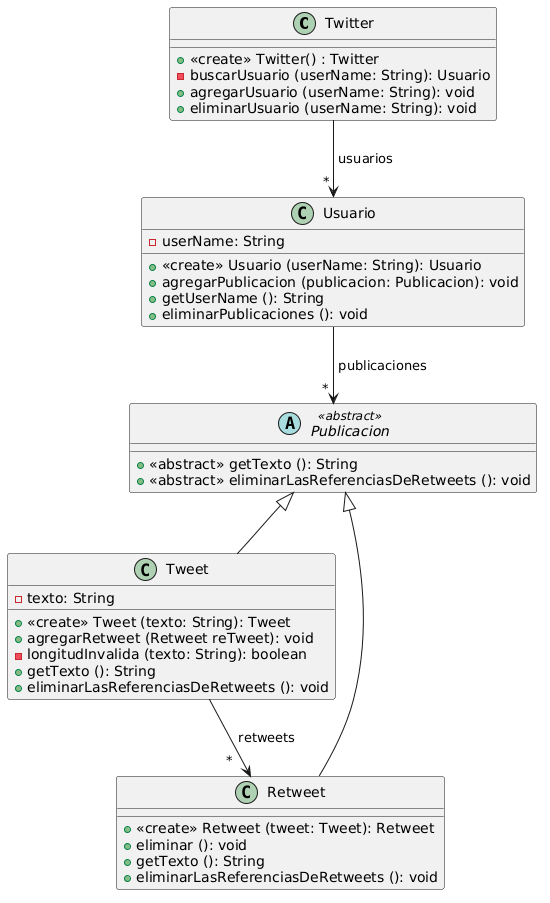
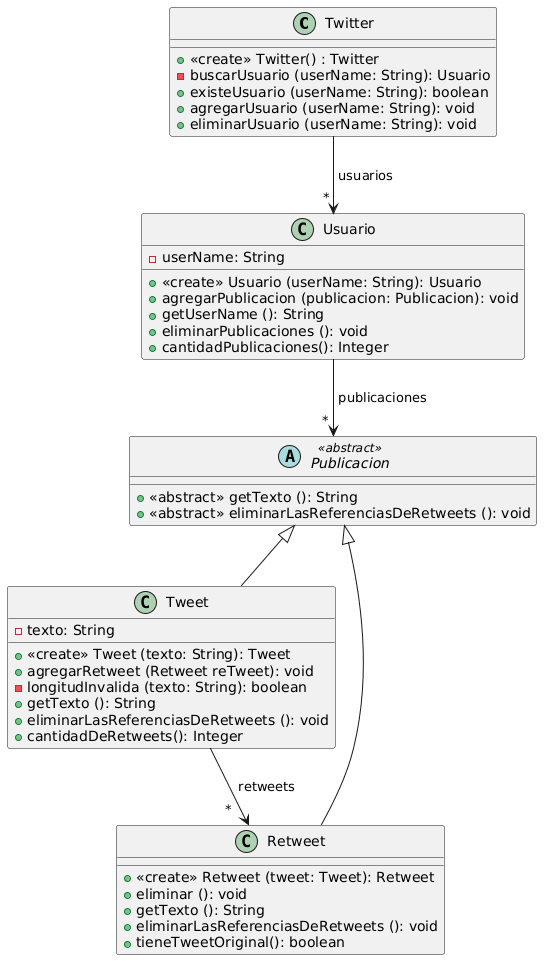
POO2

diff --git a/Cuadernillo/Repaso/ejercicio 1/test/TweetTest.java b/Cuadernillo/Repaso/ejercicio 1/test/TweetTest.java
@@ -1,0 +1,66 @@
+package RepasoEjercicio1;
+
+import org.junit.jupiter.api.Test;
+import static org.junit.jupiter.api.Assertions.*;
+
+class TweetTest {
+
+    private Tweet tweet;
+    private Retweet retweet;
+
+    @Test
+    public void tweetLonguitudLimiteInferiorInvalido(){
+        String texto = "";
+        IllegalArgumentException exception = assertThrows(IllegalArgumentException.class, () -> new Tweet(texto));
+        assertEquals("Largo de tweet invalido", exception.getMessage());
+    }
+
+    @Test
+    public void tweetLonguitudInferiorValida(){
+        String texto = "a";
+        Tweet tweet = new Tweet(texto);
+        assertEquals(texto, tweet.getTexto());
+    }
+
+   @Test
+   public void tweetLonguitudSuperiorValida(){
+       String texto = "a".repeat(280);
+       Tweet tweet = new Tweet(texto);
+       assertEquals(texto, tweet.getTexto());
+   }
+
+
+    @Test
+    public void tweetLonguitudSuperiorInvalido(){
+        String texto = "a".repeat(281);
+        IllegalArgumentException exception = assertThrows(IllegalArgumentException.class, () -> new Tweet(texto));
+        assertEquals("Largo de tweet invalido", exception.getMessage());
+    }
+
+
+   @Test
+    public void agregarReTweet(){
+       Tweet tweet = new Tweet("hola");
+       Retweet retweet= new Retweet(tweet); // se instancia retweet y se agrega a colecicon de tweet(retweetsDeMisTweets).
+       assertEquals(1,tweet.cantidadDeRetweets());
+   }
+
+    @Test
+    public void agregarMasDeUnReTweet(){
+        Tweet tweet = new Tweet("hola");
+        Retweet retweet= new Retweet(tweet);
+        Retweet retweet2 = new Retweet(tweet);
+        assertEquals(2,tweet.cantidadDeRetweets());
+    }
+
+    @Test
+    public void eliminarReferenciasDeRetweets(){
+        Tweet tweet = new Tweet("hola");
+        Retweet retweet1 = new Retweet(tweet);
+        Retweet retweet2 = new Retweet(tweet);
+        assertEquals(2, tweet.cantidadDeRetweets());
+        tweet.eliminarLasReferenciasDeRetweets();
+        assertEquals(0, tweet.cantidadDeRetweets());
+    }
+
+}

diff --git a/Cuadernillo/Repaso/ejercicio 1/test/TwitterTest.java b/Cuadernillo/Repaso/ejercicio 1/test/TwitterTest.java
@@ -1,0 +1,64 @@
+package RepasoEjercicio1;
+
+import org.junit.jupiter.api.BeforeEach;
+import org.junit.jupiter.api.Test;
+import static org.junit.jupiter.api.Assertions.*;
+
+class TwitterTest {
+
+    private Twitter twitter;
+    private String userName;
+
+    @BeforeEach
+    public void setUp(){
+        twitter= new Twitter();
+        userName="caro";
+    }
+
+
+    @Test
+    public void agregarUsuarioValido() {
+        twitter.agregarUsuario(userName);
+        assertTrue(twitter.existeUsuario(userName));
+     }
+
+
+     @Test
+    public void agregarUsuarioInvalido(){
+         twitter.agregarUsuario(userName); // 1° vez
+         IllegalArgumentException exception= assertThrows(IllegalArgumentException.class, () -> twitter.agregarUsuario(userName)); // 2° vez
+         assertEquals("El usuario " + userName + " ya existe", exception.getMessage());
+     }
+
+
+    @Test
+    public void noExisteUsuario() {
+        assertFalse(twitter.existeUsuario(userName));
+    }
+
+
+    @Test
+    public void existeUsuario() {
+        twitter.agregarUsuario(userName);
+        twitter.existeUsuario(userName);
+        assertTrue(twitter.existeUsuario(userName));
+    }
+
+
+    @Test
+    public void eliminacionDeUsuarioValido(){
+        twitter.agregarUsuario(userName);
+        assertTrue(twitter.existeUsuario(userName));
+        twitter.eliminarUsuario(userName);
+        assertFalse(twitter.existeUsuario(userName));
+    }
+
+
+    @Test
+    public void eliminacionDeUsuarioInvalido(){
+        IllegalArgumentException exception = assertThrows(IllegalArgumentException.class, () -> twitter.eliminarUsuario(userName));
+        assertEquals("El usuario " + userName + " no existe", exception.getMessage());
+    }
+
+}
+

diff --git a/Cuadernillo/Repaso/ejercicio 1/test/UsuarioTest.java b/Cuadernillo/Repaso/ejercicio 1/test/UsuarioTest.java
@@ -1,0 +1,53 @@
+package RepasoEjercicio1;
+
+import org.junit.jupiter.api.BeforeEach;
+import org.junit.jupiter.api.Test;
+import static org.junit.jupiter.api.Assertions.*;
+
+class UsuarioTest {
+
+    private Usuario usuario;
+    private Tweet tweet;
+    private Retweet retweet;
+
+    @BeforeEach
+    public void setUp(){
+        usuario= new Usuario("caro");
+        tweet= new Tweet("hola");
+        retweet= new Retweet(tweet);
+    }
+
+    @Test
+    public void agregarPublicacion(){
+        assertEquals(0,usuario.cantidadPublicaciones());
+        usuario.agregarPublicacion(tweet);
+        assertEquals(1,usuario.cantidadPublicaciones());
+    }
+
+
+    @Test
+    public void agregarDiferentesPublicaciones(){
+        usuario.agregarPublicacion(tweet);
+        usuario.agregarPublicacion(retweet);
+        assertEquals(2, usuario.cantidadPublicaciones());
+    }
+
+
+    @Test
+    public void eliminarPublicaciones(){
+        usuario.agregarPublicacion(tweet);
+        usuario.agregarPublicacion(retweet);
+        assertEquals(2,usuario.cantidadPublicaciones());
+        usuario.eliminarPublicaciones();
+        assertEquals(0,usuario.cantidadPublicaciones());
+    }
+
+
+    @Test
+    public void eliminarPublicacionesSinPublicaciones(){
+        assertEquals(0, usuario.cantidadPublicaciones());
+        usuario.eliminarPublicaciones();
+        assertEquals(0, usuario.cantidadPublicaciones());
+    }
+
+}

diff --git a/Cuadernillo/Repaso/ejercicio 1/test/RetweetTest.java b/Cuadernillo/Repaso/ejercicio 1/test/RetweetTest.java
@@ -1,0 +1,32 @@
+package RepasoEjercicio1;
+
+import org.junit.jupiter.api.Test;
+import static org.junit.jupiter.api.Assertions.*;
+
+class RetweetTest {
+
+    private Tweet tweet;
+    private Retweet retweet;
+
+    @Test
+    public void constructorGuardaTweetOriginal() {
+        Tweet tweet = new Tweet("Hola");
+        Retweet retweet = new Retweet(tweet);
+        assertTrue(retweet.tieneTweetOriginal());
+    }
+
+    @Test
+    public void quitaReferenciaAlTweet() {
+        Tweet tweet = new Tweet("Hola");
+        Retweet retweet = new Retweet(tweet);
+        assertTrue(retweet.tieneTweetOriginal());
+        retweet.eliminar();
+        assertFalse(retweet.tieneTweetOriginal());
+    }
+
+
+
+
+
+
+}

diff --git a/Cuadernillo/Repaso/ejercicio 1/codigo/Twitter.java b/Cuadernillo/Repaso/ejercicio 1/codigo/Twitter.java
@@ -18,8 +18,12 @@ public class Twitter {
                 .orElse(null);
     }
 
+    public boolean existeUsuario(String userName) {
+        return (this.buscarUsuario(userName) != null);
+    }
+
     public void agregarUsuario(String userName) {
-        if (this.buscarUsuario(userName) != null)
+        if (this.existeUsuario(userName))
             throw new IllegalArgumentException("El usuario " + userName + " ya existe");
         this.usuarios.add(new Usuario(userName));
     }
@@ -31,6 +35,7 @@ public class Twitter {
         usuario.eliminarPublicaciones();
         this.usuarios.remove(usuario); //3
     }
+
 
 }
 

diff --git a/Cuadernillo/Repaso/ejercicio 1/codigo/Tweet.java b/Cuadernillo/Repaso/ejercicio 1/codigo/Tweet.java
@@ -36,4 +36,10 @@ public class Tweet extends Publicacion {
         this.retweetsDeMisTweets.clear(); // vacio coleccion de re-tweets
     }
 
+    // -------- < METODO UTIL PARA TEST > -----------
+
+    public int cantidadDeRetweets() {
+        return this.retweetsDeMisTweets.size();
+    }
+
 }

diff --git a/Cuadernillo/Repaso/ejercicio 1/codigo/Retweet.java b/Cuadernillo/Repaso/ejercicio 1/codigo/Retweet.java
@@ -21,4 +21,10 @@ public class Retweet extends Publicacion {
     @Override
     public void eliminarLasReferenciasDeRetweets(){}
 
+    // -------- < METODO UTIL PARA TEST > -----------
+
+    public boolean tieneTweetOriginal() {
+        return this.tweet != null;
+    }
+
 }

diff --git a/Cuadernillo/Repaso/ejercicio 1/codigo/Usuario.java b/Cuadernillo/Repaso/ejercicio 1/codigo/Usuario.java
@@ -28,4 +28,9 @@ public class Usuario {
         this.publicaciones.clear(); //2
     }
 
+    // -------- < METODO UTIL PARA TEST > -----------
+
+    public int cantidadPublicaciones() {
+        return this.publicaciones.size();
+    }
 }
